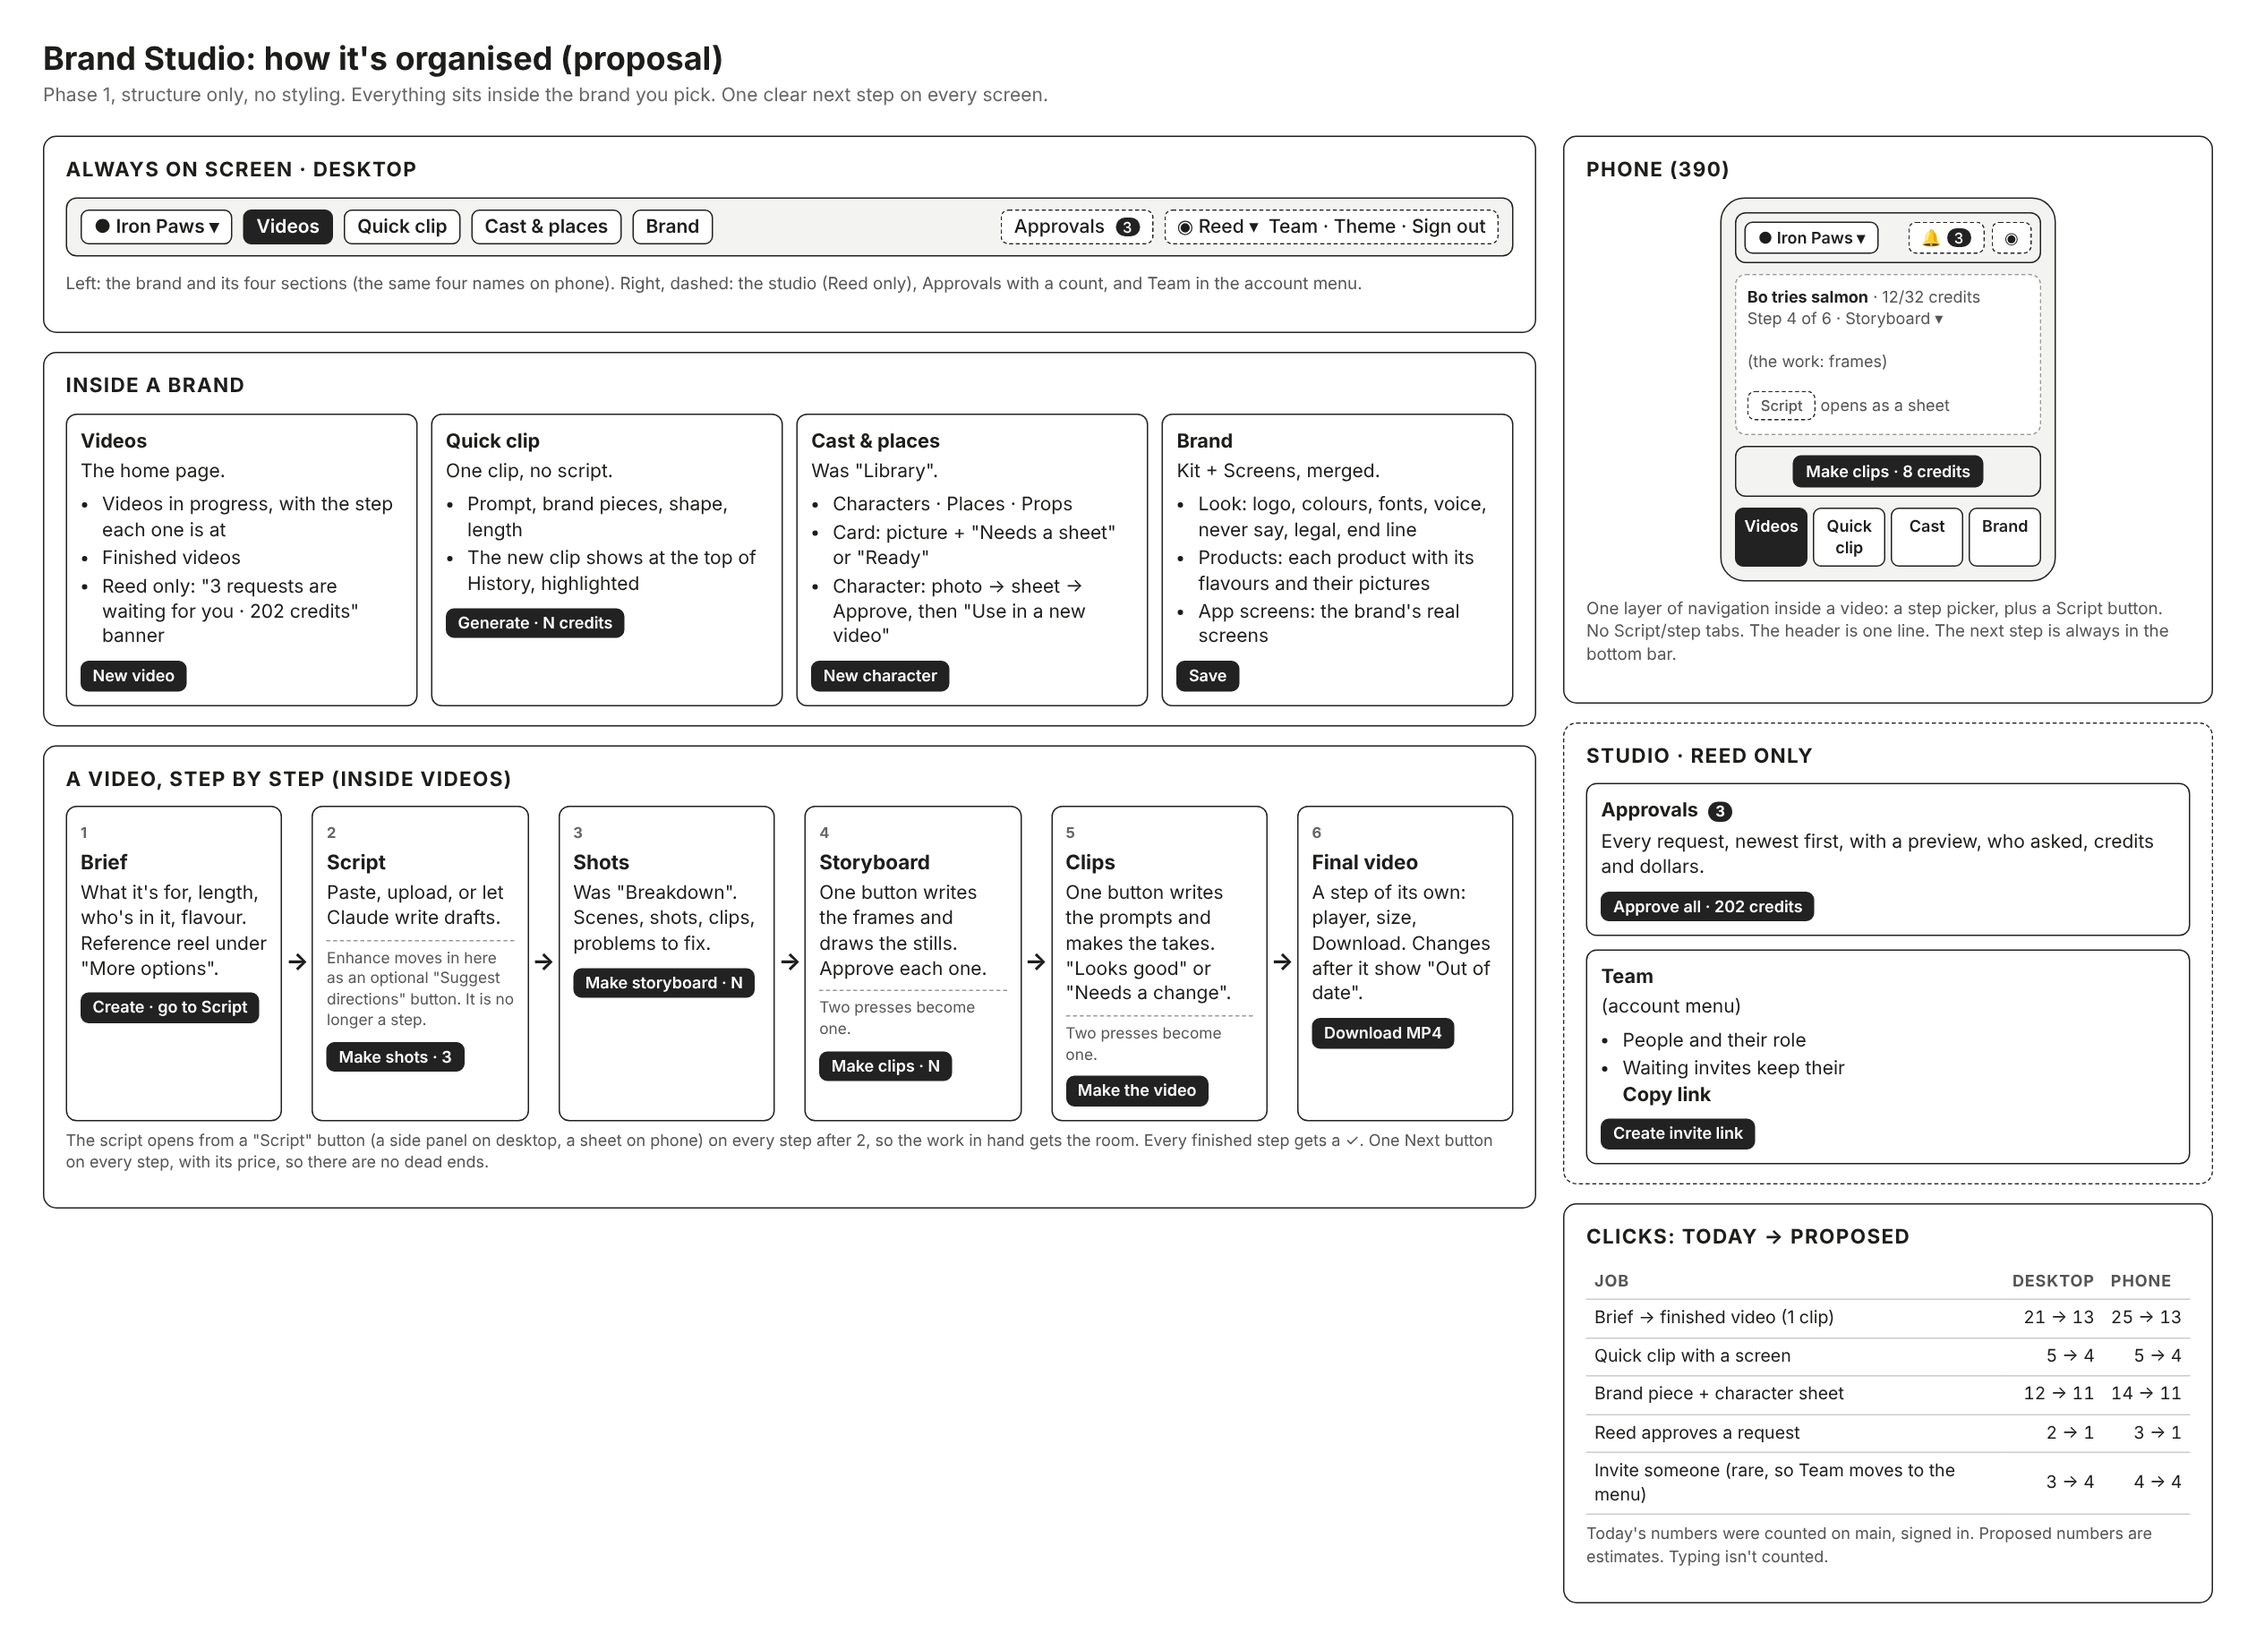
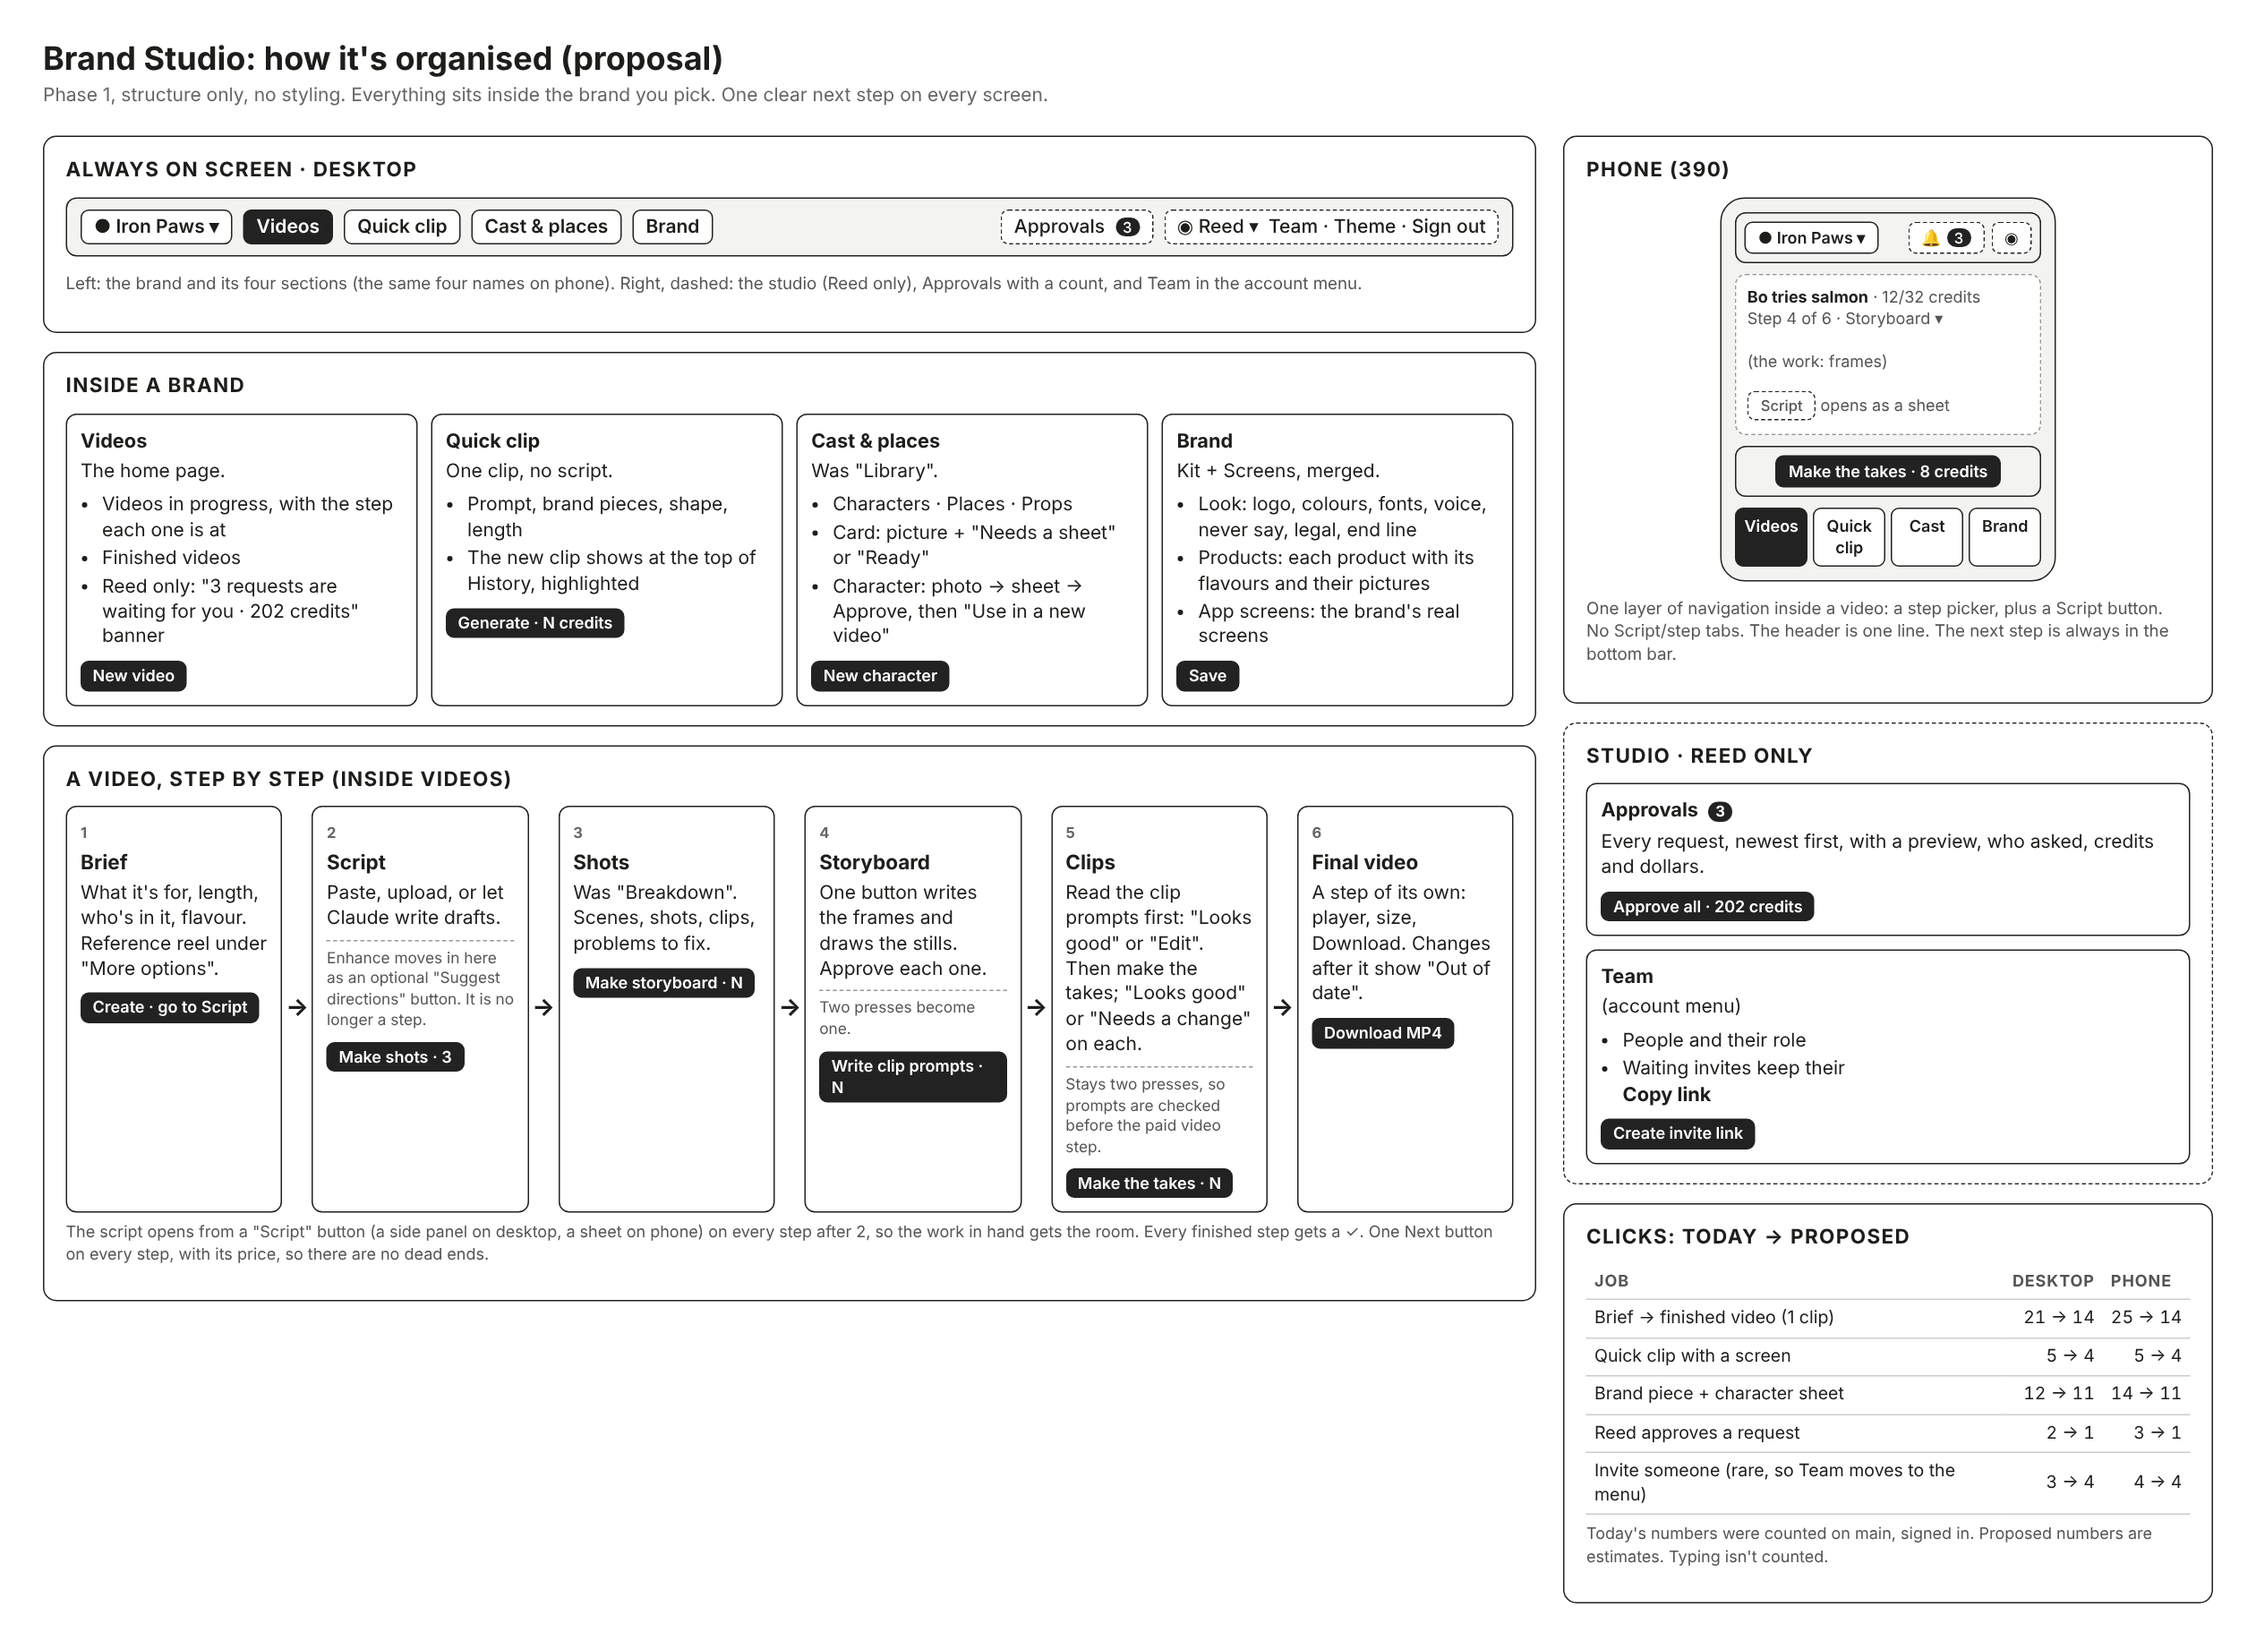
Redesign phase 1: Clips keeps prompts as their own step (Reed's change); record the decision
Claude-Session: https://claude.ai/code/session_018EZgdP2tfyzLp1eHTwPkJJ

diff --git a/docs/design/redesign/phase1.md b/docs/design/redesign/phase1.md
@@ -1,6 +1,6 @@
 # Redesign, phase 1: how the app is organised
 
-Structure only, no styling. For Reed to approve before any visual work starts.
+Structure only, no styling. **Approved by Reed on 2026-10-24**, with one change: clip prompts stay a separate step before the paid takes (item 5).
 
 ![Structure map](phase1-structure-map.png)
 
@@ -8,7 +8,7 @@ Structure only, no styling. For Reed to approve before any visual work starts.
 
 | Job | Clicks today (desktop / phone) | Proposed |
 |---|---|---|
-| Brief → finished video (one clip) | 21 / 25 | 13 / 13 |
+| Brief → finished video (one clip) | 21 / 25 | 14 / 14 |
 | Quick clip with a brand screen | 5 / 5 | 4 / 4 |
 | Add a product screen and a character with an approved sheet | 12 / 14 | 11 / 11 |
 | Reed approves a request | 2 / 3 | 1 / 1 |
@@ -31,11 +31,13 @@ Structure only, no styling. For Reed to approve before any visual work starts.
 4. **One Next button on every step, always in the same place, with its price.**
    - On desktop it's top right; on a phone, a fixed bottom bar.
    - *Why:* after "Create project", the phone opens on the Script tab, so "Next: Script" is hidden. Four of the 25 phone clicks only switch between the Script tab and the step tab.
-5. **Fewer "make" presses.**
-   - "Make storyboard" writes the frames *and* draws the stills.
-   - "Make clips" writes the prompts *and* makes the takes.
-   - This saves two presses and two waits per video, and the button shows the total price.
-   - *Why:* today there are eight separate presses and waits, and two pairs are always pressed together.
+5. **One fewer "make" press, and clip prompts stay checkable.**
+   - "Make storyboard" writes the frames *and* draws the stills. Both are cheap, and today they're always pressed together.
+   - Clips stays two presses, as Reed decided:
+     - **Write clip prompts** shows each prompt with "Looks good / Edit", and the app's prompt checks can flag problems.
+     - Then one priced **Make the takes · N credits** button.
+     - This way nobody pays for video before the prompts have been read.
+   - *Why:* today there are eight separate presses and waits.
 6. **The script steps aside after the Script step.**
    - From Shots on, it opens from a **Script** button: a side panel on desktop, a sheet on a phone.
    - *Why:* today the script keeps half the screen on every step, so frames, takes and the final video are squeezed into the other half.
@@ -66,5 +68,5 @@ Structure only, no styling. For Reed to approve before any visual work starts.
 - Editors see credits, never dollars. Only Approvals (Reed) shows dollars.
 - Everything stays inside a brand. The fomo and Iron Paws flows were the ones walked.
 - Web only: nothing here needs a server, API or database change.
-  - The "two presses become one" changes call the same steps one after the other.
+  - Merging the Storyboard presses calls the same two steps one after the other.
   - The final-video step is a new screen over the existing video data.

diff --git a/ops/DECISIONS.md b/ops/DECISIONS.md
@@ -26,3 +26,4 @@
 - 2026-10-23 Brands at launch: fomo (real UI screens attached by default for trading/fomo moments) and Iron Paws.
 - 2026-10-23 New repo (brand-studio), not a rebuild of story-studio. Carry over only proven pieces: Seedance/Nano Banana/Gemini calls via Replicate, fomo screens, cut detection, gold breakdowns.
 - 2026-10-23 Models: Claude Opus 5.5 writes/directs; Seedance 2.5 video, Nano Banana 2.1/Pro pictures, Gemini 3.5 Flash watching, all via Replicate.
+- 2026-10-24 Reed approved the redesign structure (phase 1, #170); clip prompts are always reviewable before takes are paid for.
